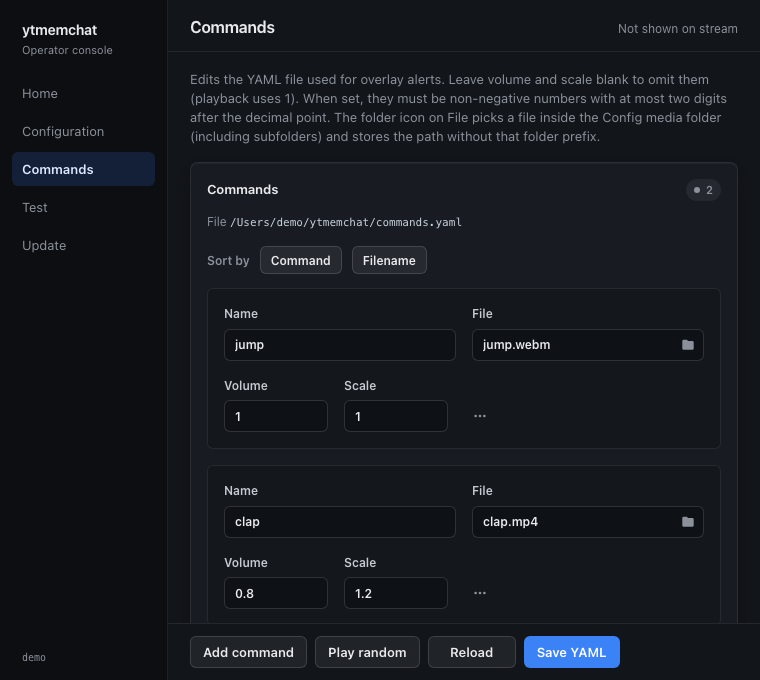
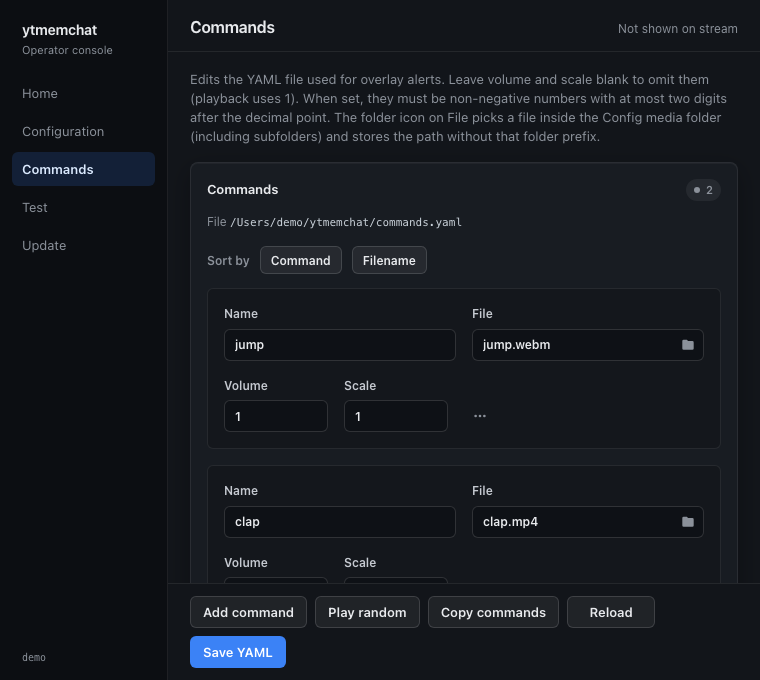
Added button to copy commands into clipboard

Changed region(s): [[0.575, 0.8956, 0.8474, 0.9882], [0.2421, 0.8647, 0.3934, 0.9882], [0.4237, 0.8647, 0.5447, 0.9882]]

diff --git a/frontend/src/lib/CommandsPane.svelte b/frontend/src/lib/CommandsPane.svelte
@@ -7,12 +7,14 @@
     SaveAlertCommands,
   } from '../../wailsjs/go/commands/Commands.js'
   import { commands as cmdModels } from '../../wailsjs/go/models'
+  import { ClipboardSetText } from '../../wailsjs/runtime/runtime'
   import type { NoticeKind } from './Notifications.svelte'
 
   type CommandRow = { name: string; file: string; volume: string; scale: string }
 
   export let mediaPath: string
   export let commandsFilePath: string
+  export let token: string
   export let canTest: boolean
   export let alertsEnabled: boolean
   export let notify: (text: string, kind?: NoticeKind) => void
@@ -166,6 +168,34 @@
     : !canTest
       ? 'OBS overlay is offline'
       : ''
+
+  function prefixedLines(list: CommandRow[], prefix: string, tick: number): string[] {
+    void tick
+    const p = prefix.trim() || '@'
+    const lines: string[] = []
+    for (const row of list) {
+      const name = row.name.trim()
+      if (name === '') {
+        continue
+      }
+      lines.push(p + name)
+    }
+    return lines
+  }
+
+  $: copyLines = prefixedLines(rows, token, namesTick)
+
+  async function copyCommands(): Promise<void> {
+    if (copyLines.length === 0) {
+      return
+    }
+    try {
+      await ClipboardSetText(copyLines.join('\n'))
+      notify('Commands copied')
+    } catch (e) {
+      notify(String(e), 'err')
+    }
+  }
 
   function playRandom(): void {
     if (!canPlayRandom) {
@@ -471,6 +501,13 @@
         type="button"
         on:click={playRandom}
       >Play random</button>
+      <button
+        class="btn"
+        disabled={loading || copyLines.length === 0}
+        title={copyLines.length ? 'Copy each command with the token, one per line' : 'Add a command name first'}
+        type="button"
+        on:click={() => void copyCommands()}
+      >Copy commands</button>
       <button class="btn" disabled={loading || saving} type="button" on:click={() => void load()}>Reload</button>
       <button
         class="btn btn-primary"

diff --git a/frontend/src/App.svelte b/frontend/src/App.svelte
@@ -378,6 +378,7 @@
         <CommandsPane
           mediaPath={alertsMediaPath}
           commandsFilePath={alertsCommandsFilePath}
+          token={alertsToken}
           canTest={!!(obs && obs.listening)}
           {alertsEnabled}
           {notify}

diff --git a/docs/wiki/Commands.md b/docs/wiki/Commands.md
@@ -35,6 +35,8 @@ commands:
 
 **Add command** appends a row. **Save YAML** writes the file. **Reload** discards unsaved edits. Sort by Command or Filename only changes the on-screen order until you save.
 
+**Copy commands** copies the names on screen. Each line starts with the token from Configuration. A blank name is skipped.
+
 **Play random** sends one command that has a file, chosen at random, using the volume and scale in the editor. Commands with a blank file are skipped. The per-row **Play** sends that one command. Both need Alerts on and the overlay listening.
 
 The folder icon on File needs a media folder on Configuration. Paths outside that folder are rejected.

diff --git a/docs/wiki/Setting-up-commands.md b/docs/wiki/Setting-up-commands.md
@@ -38,6 +38,8 @@ Open **Commands**. Each row is one trigger.
 
 **Add command**, then **Save YAML**. Saving reloads the matcher. You do not need YouTube **Start**. **Reload** throws away unsaved edits.
 
+**Copy commands** copies every name with the token, one per line. Paste that text where viewers can read it.
+
 The folder icon rejects files outside the media folder. Put clips in that folder. Subfolders are fine.
 
 Typical files:
